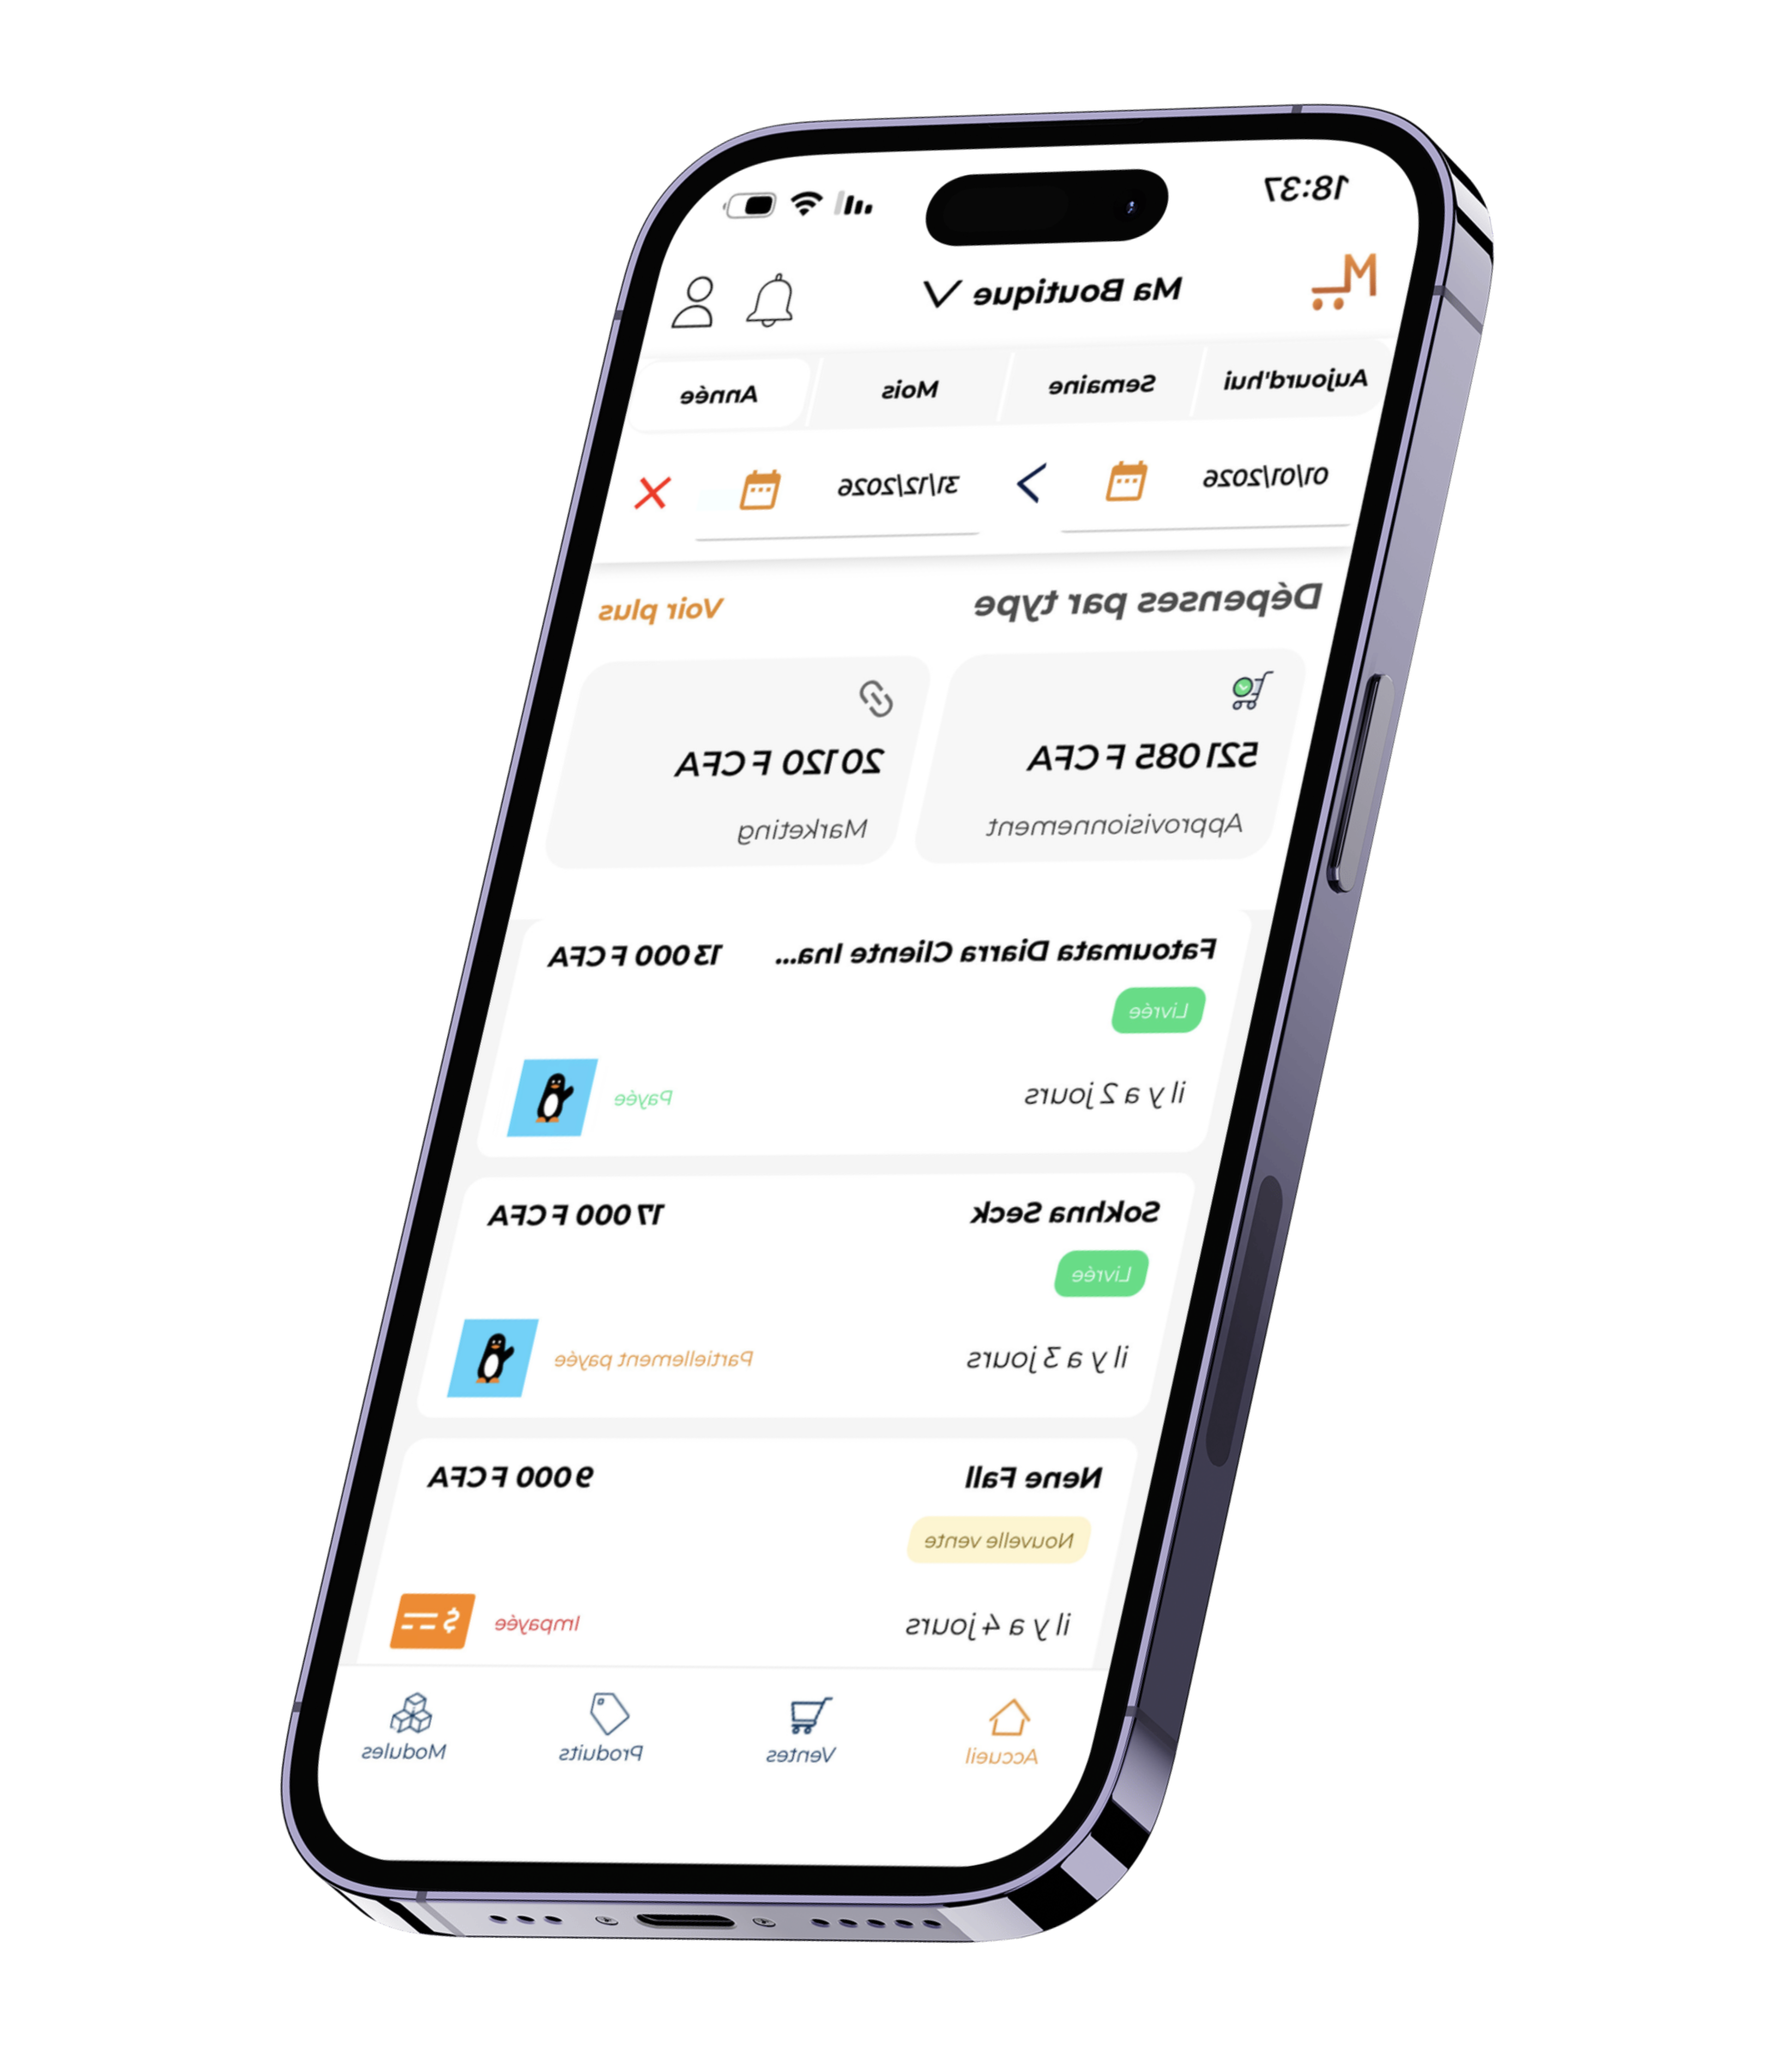
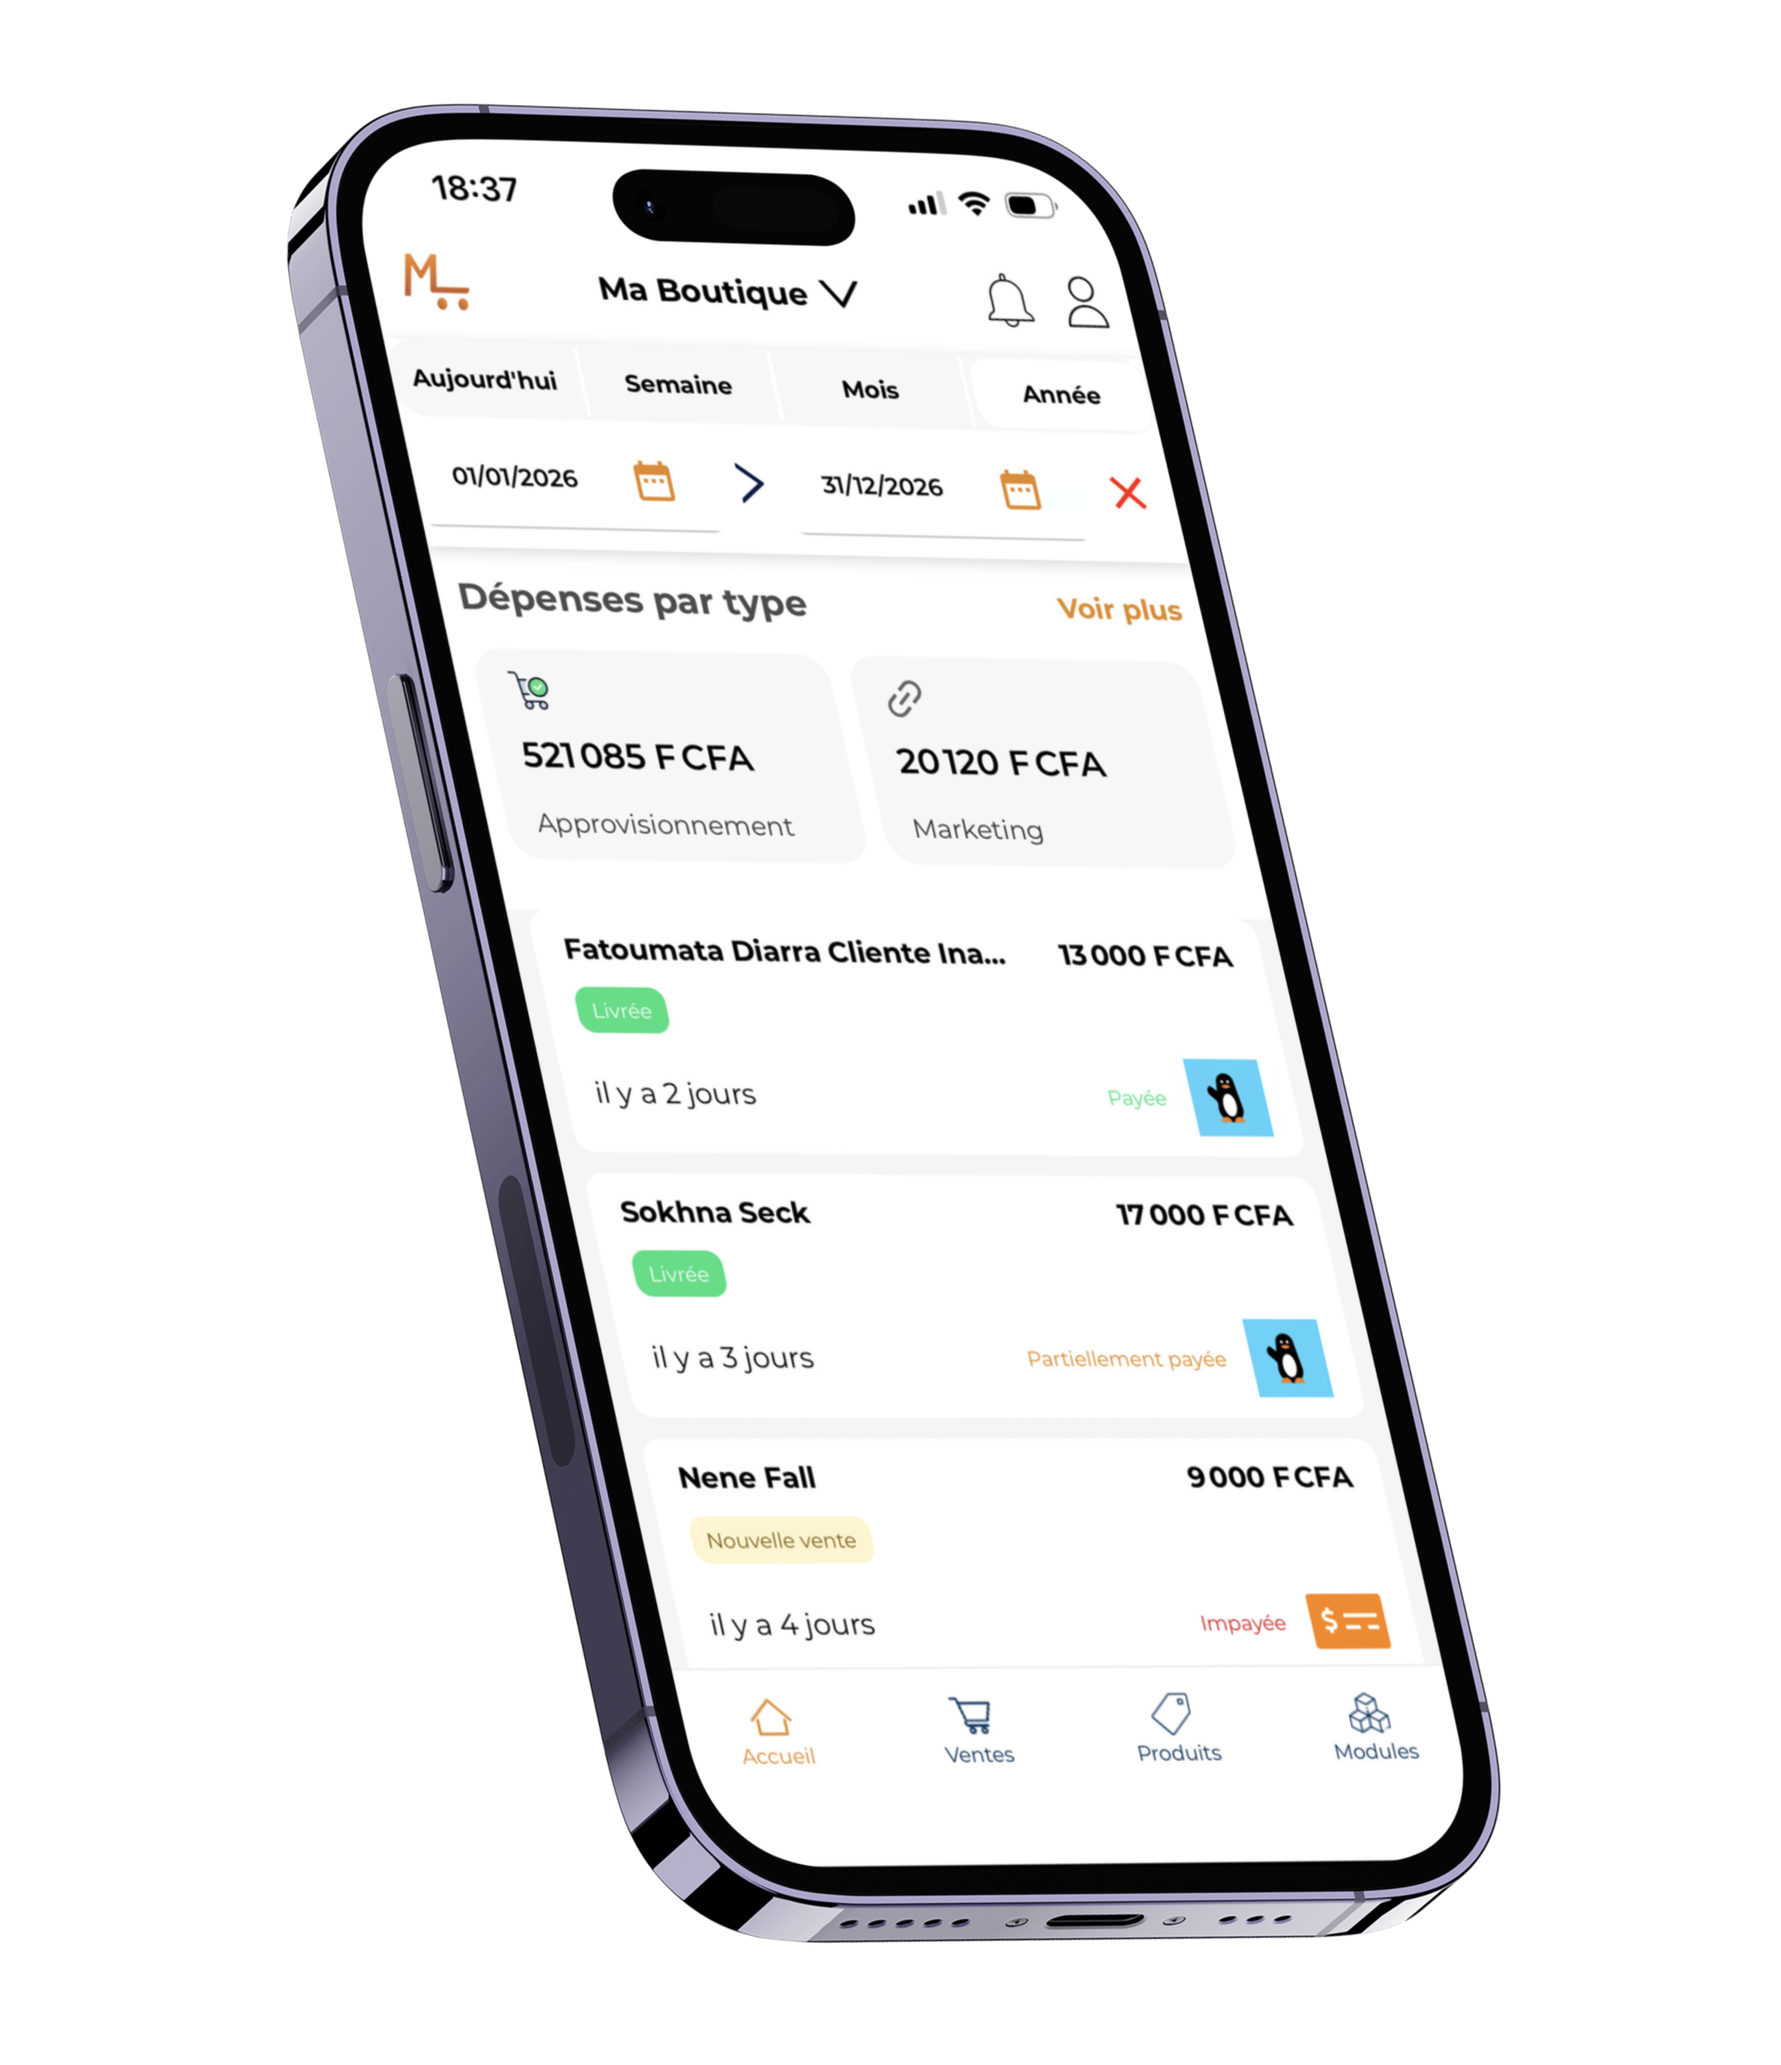
MOdif cam

Changed region(s): [[0.1561, 0.0312, 0.843, 0.9662], [0.4683, 0.187, 0.5308, 0.2493]]

diff --git a/src/sections/Features.jsx b/src/sections/Features.jsx
@@ -52,7 +52,7 @@ export default function Features() {
 
       {/* SECTION 1 — Pourquoi EasyMarket */}
 <section id="fonctionnalites" className="py-[100px] px-6 bg-[#F5F5F5]">
-        <div className="max-w-[1100px] mx-auto">
+        <div className="max-w-[1150px] mx-auto">
           <div className="why-grid grid grid-cols-2 gap-['20px] items-center">
 
             {/* Phone */}
@@ -66,9 +66,9 @@ export default function Features() {
     w-[280px] md:w-[320px] lg:w-[380px] h-[500px]
     drop-shadow-[0_50px_80px_rgba(255, 255, 255, 1)]
   "
-  // style={{
-  //   transform: 'rotate(-40deg) translateX(16px) translateY(10px)',
-  // }}
+  style={{
+    transform: 'rotate(-10deg) translateX(16px) translateY(10px)',
+  }}
 />
             </div>
 
@@ -96,7 +96,7 @@ export default function Features() {
     bg-[#E47000]
     text-white
     rounded-[20px]
-    text-[14px]
+    text-[16px]
     font-bold
     cursor-pointer
     flex items-center justify-center gap-[10px]
